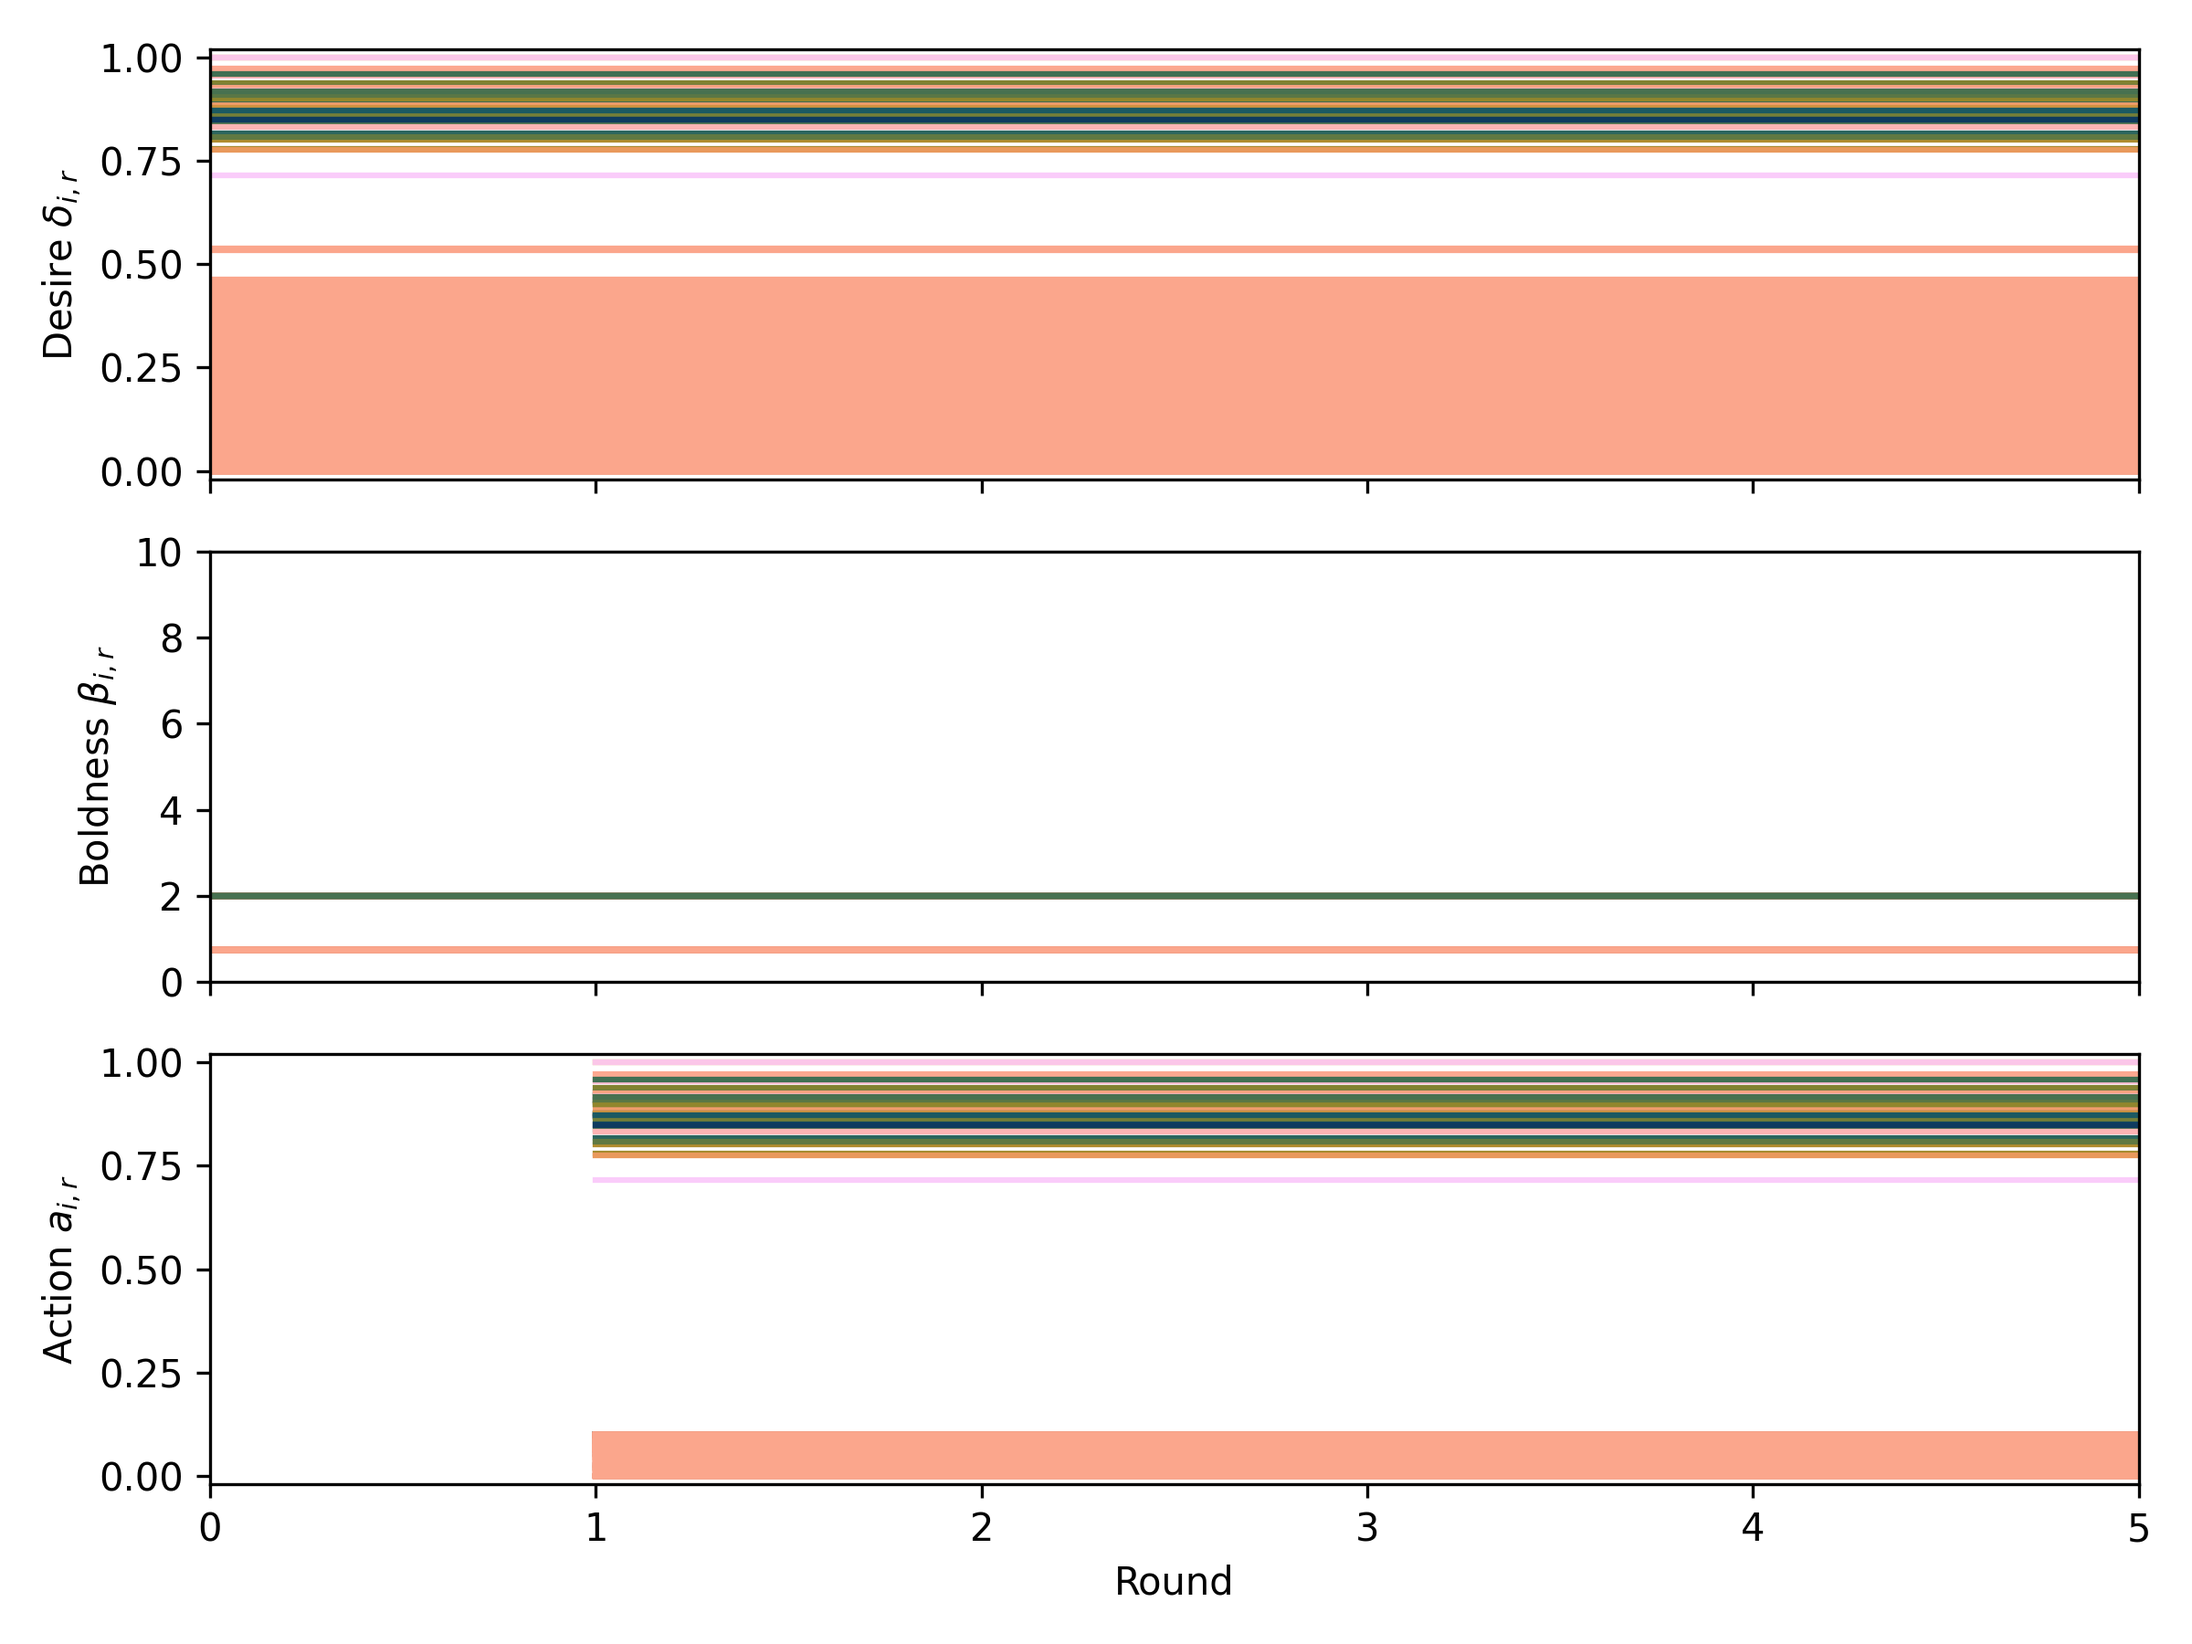
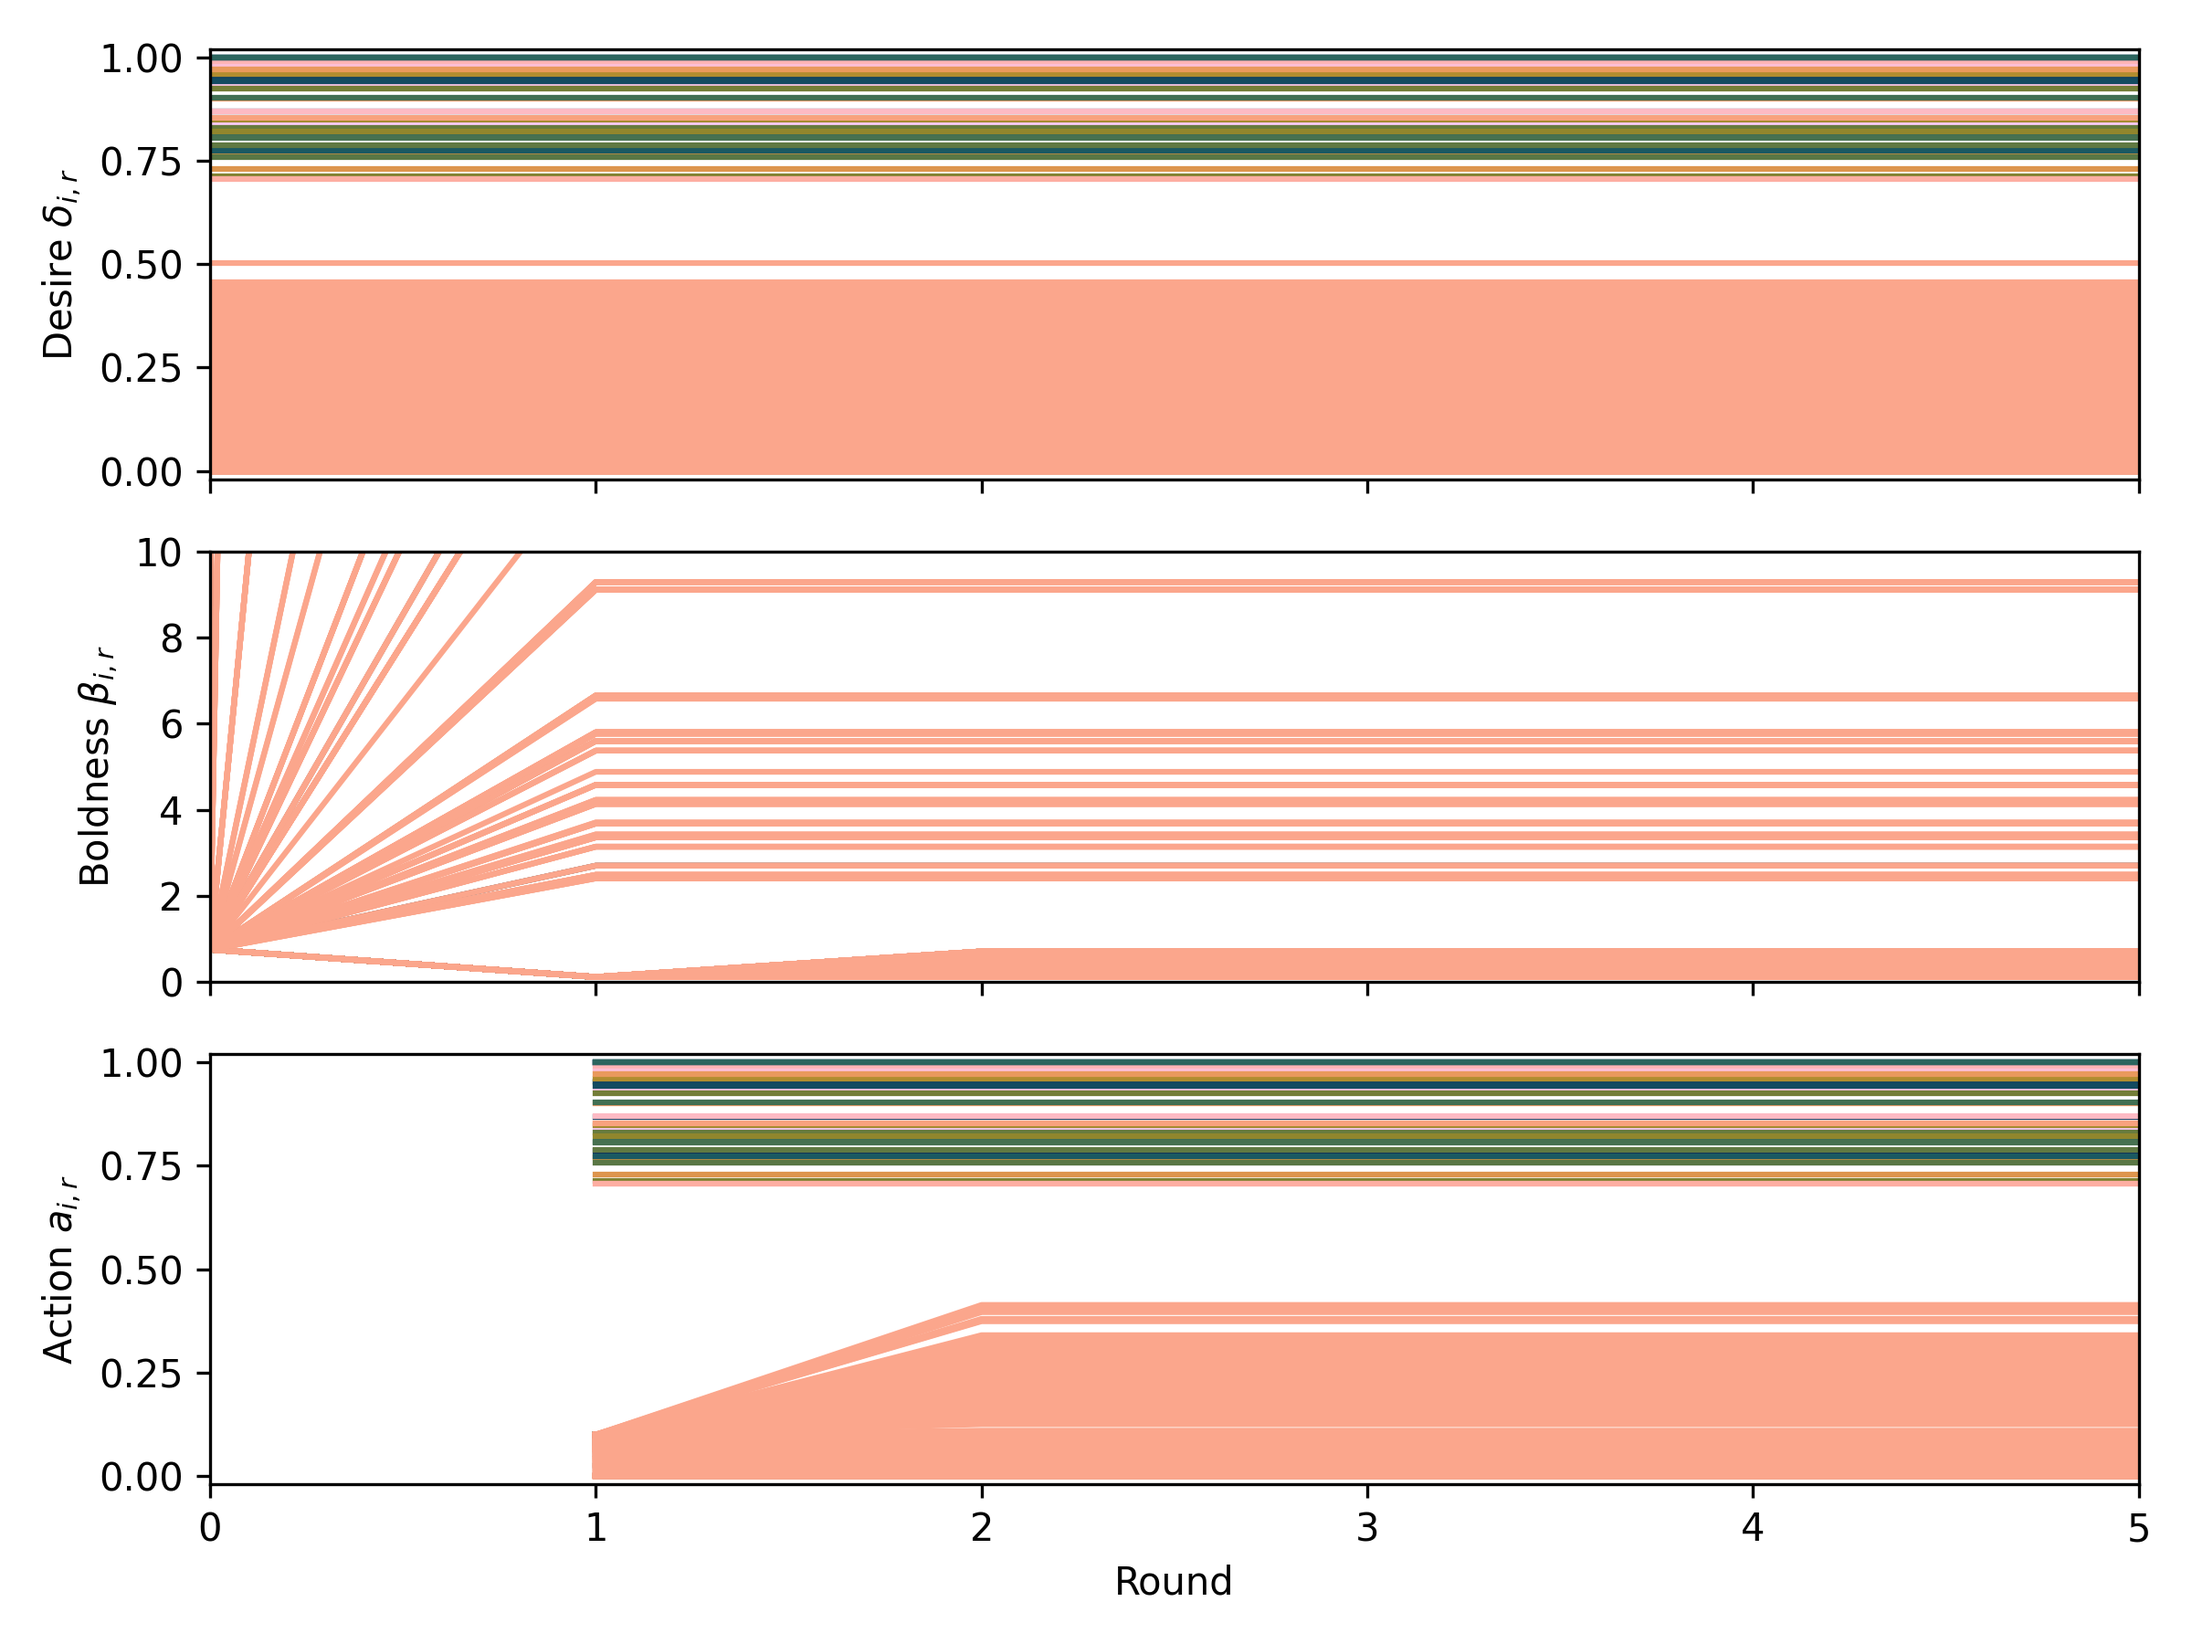
new graphs

diff --git a/code/solidarity.py b/code/solidarity.py
@@ -36,7 +36,7 @@ if __name__ == '__main__':
 
     # Run simulation.
     deltas, betas, acts = engine(
-        G, N=N, R=R, rule='d2d', w=1, deltas=deltas, betas=betas, nu=0.5,
+        G, N=N, R=R, rule='d2max', w=1, deltas=deltas, betas=betas, nu=0.5,
         pi='uniform', tau=0.1, sigma_tau=0.0, psi=1, sigma_psi=0.0, rng=rng)
 
     # Plot the network.
